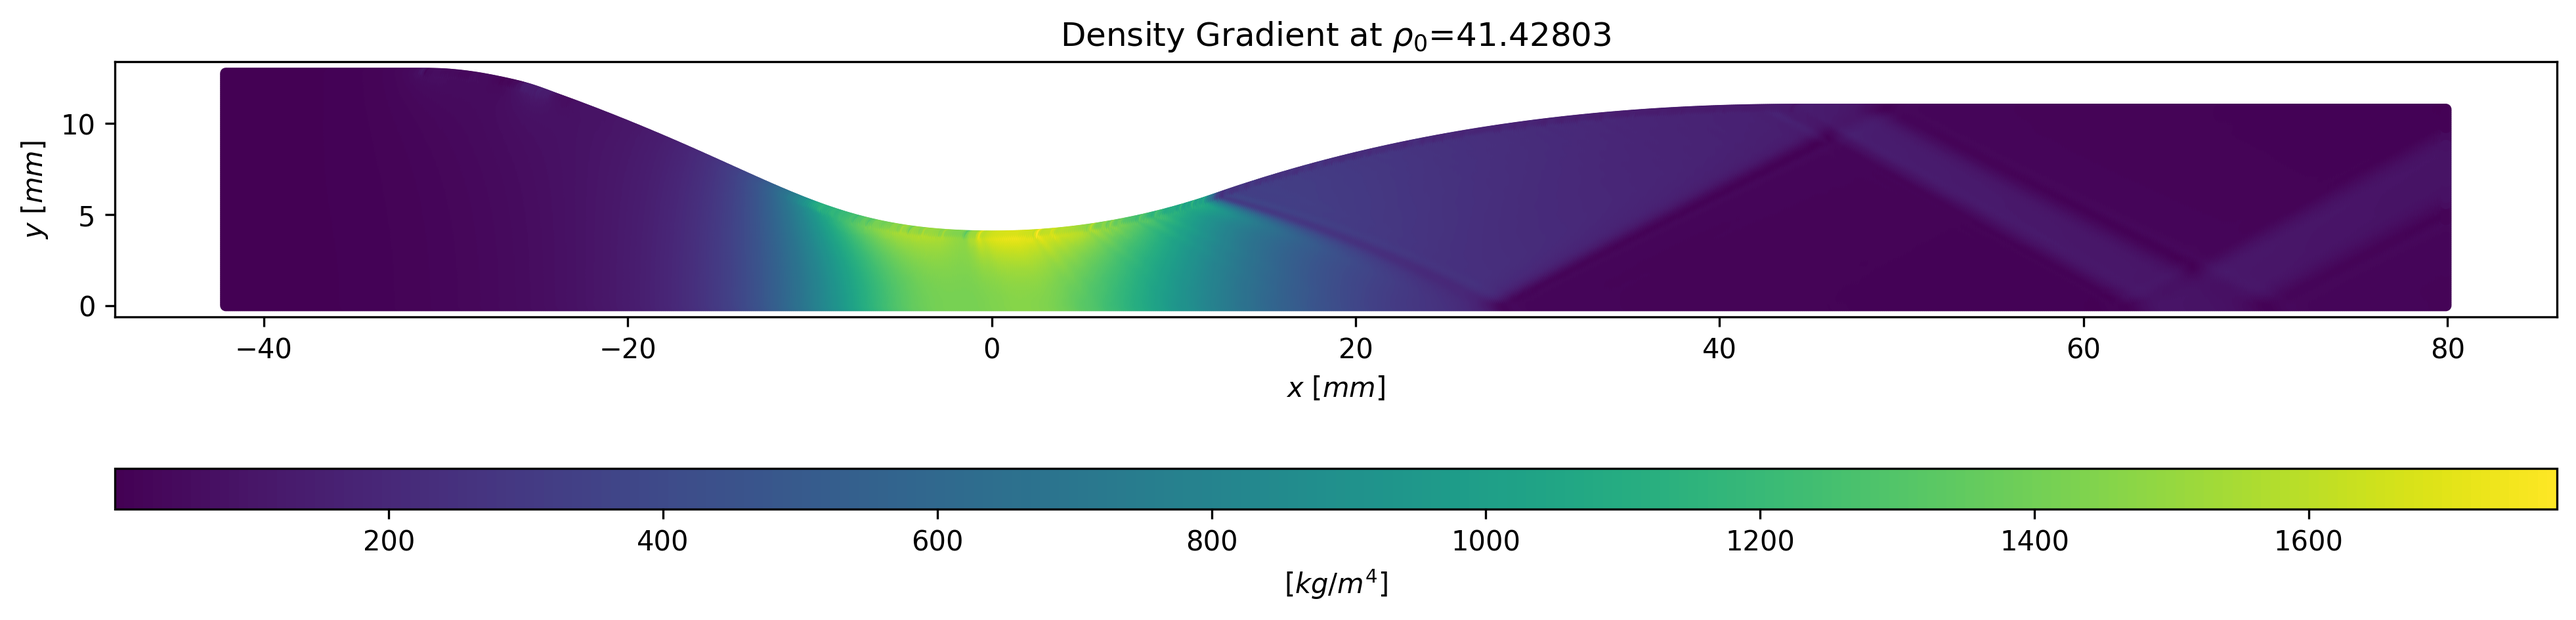
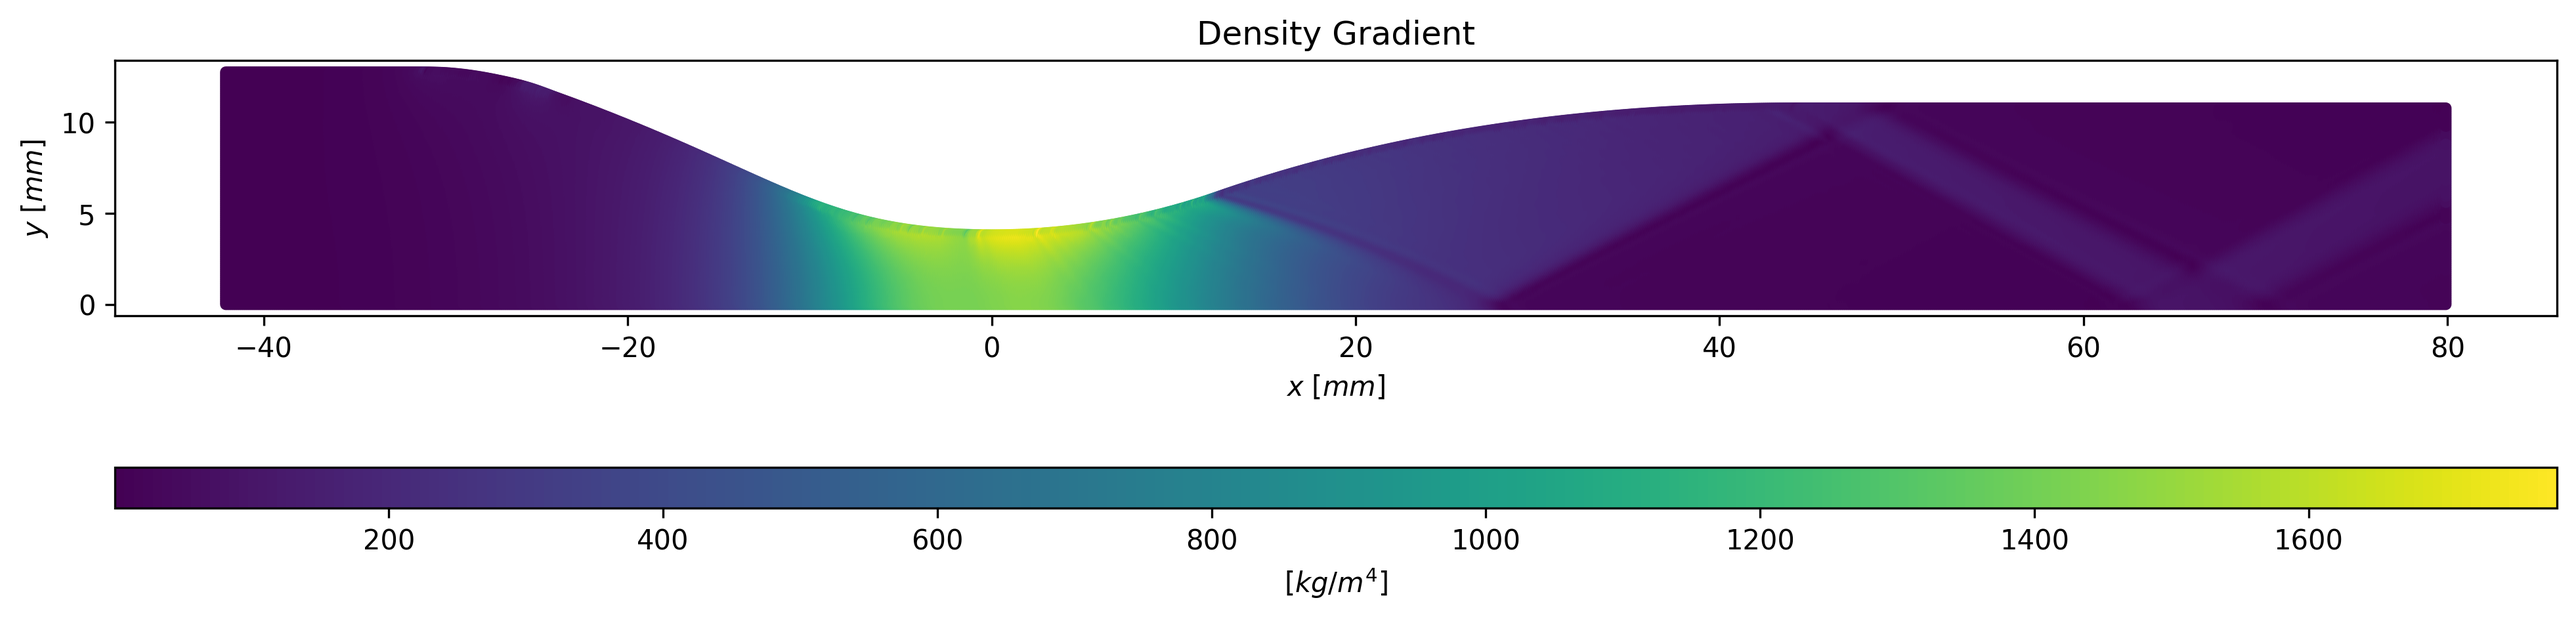
regeneration

Changed region(s): [[0.0311, 0.0308, 0.9949, 0.123], [0.0311, 0.492, 0.9949, 0.5228], [0.4975, 0.6151, 0.5285, 0.6458]]

diff --git a/d02_cfd_comparisons.py b/d02_cfd_comparisons.py
@@ -125,7 +125,7 @@ sc = ax.scatter(x, y, c=density, s=10)
 
 ax.set_xlabel(r"$x$ [$mm$]")
 ax.set_ylabel(r"$y$ [$mm$]")
-ax.set_title("Density at " + fr'$\rho_0$={round(rho0[6], 5)}')
+ax.set_title("Density")
 ax.set_aspect('equal', adjustable='box')
 
 cbar = fig.colorbar(sc, ax=ax, orientation='horizontal', pad=0.25, fraction=0.1, aspect=60)
@@ -137,11 +137,11 @@ plt.close(fig)
 
 # Density Gradient
 fig, ax = plt.subplots(figsize=(16, 4))
-sc = ax.scatter(x, y, c=density_prime, s=10)
+sc = ax.scatter(x, y, c=(density_prime), s=10)
 
 ax.set_xlabel(r"$x$ [$mm$]")
 ax.set_ylabel(r"$y$ [$mm$]")
-ax.set_title("Density Gradient at " + fr'$\rho_0$={round(rho0[6], 5)}')
+ax.set_title("Density Gradient")
 ax.set_aspect('equal', adjustable='box')
 
 cbar = fig.colorbar(sc, ax=ax, orientation='horizontal', pad=0.25, fraction=0.1, aspect=60)
@@ -154,10 +154,10 @@ plt.close(fig)
 # Density Gradient at y0
 # plt.plot(x_common, all_curves[i], label=f'rho0={rho0[i]}')
 # plt.scatter(new_x, line, s=10, label=f'rho0=Add')
-plt.plot(new_x, (np.array(line)/rho0[6]), label=fr'$\rho_0$={round(rho0[6], 5)}')
+plt.plot(new_x, (np.array(line)/rho0[6]), label=r"Normalised $\frac{d\rho}{dx}$ [$kg/m^4$]")
 plt.xlabel(r'x')
 plt.ylabel(r'$\frac{d\rho}{dx}$')
-plt.title(r'$\frac{d\rho}{dx}$ vs x at $y=0$')
+plt.title(r'Normalised $\frac{d\rho}{dx}$ vs x at $y=0$')
 plt.legend()
 plt.grid(True)
 plt.savefig("FINAL PLOTS/Midline Density Gradient/CFD-densitygrad_y0_BOS_12_11_7.png", dpi=300)

diff --git a/d02_plot_compressibility.py b/d02_plot_compressibility.py
@@ -9,7 +9,7 @@ fig, ax = plt.subplots()
 # Use a qualitative colour map
 cmap = plt.get_cmap("tab10")
 
-for i, (xi, yi, label) in enumerate(zip(rho0, Z, labels)):
+for i, (xi, yi, label) in enumerate(zip(Z, rho0, labels)):
     colour = cmap(i)
 
     # Thin vertical line
@@ -29,7 +29,7 @@ for i, (xi, yi, label) in enumerate(zip(rho0, Z, labels)):
         s=35,
         color=colour,
         zorder=3,
-        label=f"Point {label}"
+        label=f"Image {label}"
     )
 
     # Point label
@@ -41,9 +41,9 @@ for i, (xi, yi, label) in enumerate(zip(rho0, Z, labels)):
         fontsize=8
     )
 
-ax.set_xlabel(r"Density ($\rho_0$) [kg/m^3]")
-ax.set_ylabel(r"Compressibility Factor ($Z$)")
-ax.set_title("Compressibility Factor vs Density for Different Configurations")
+ax.set_xlabel(r"Compressibility Factor ($Z$)")
+ax.set_ylabel(r"Density ($\rho_0$) [kg/m$^3$]")
+ax.set_title("Density vs Compressibility Factor for Different Configurations")
 ax.grid(True, alpha=0.3)
 
 # Legend
@@ -53,5 +53,5 @@ ax.legend(
     fontsize=8
 )
 
-fig.savefig("compressibility_factor_image.png", dpi=300, bbox_inches="tight")
+fig.savefig("compressibility_factor_image2.png", dpi=300, bbox_inches="tight")
 plt.show()
